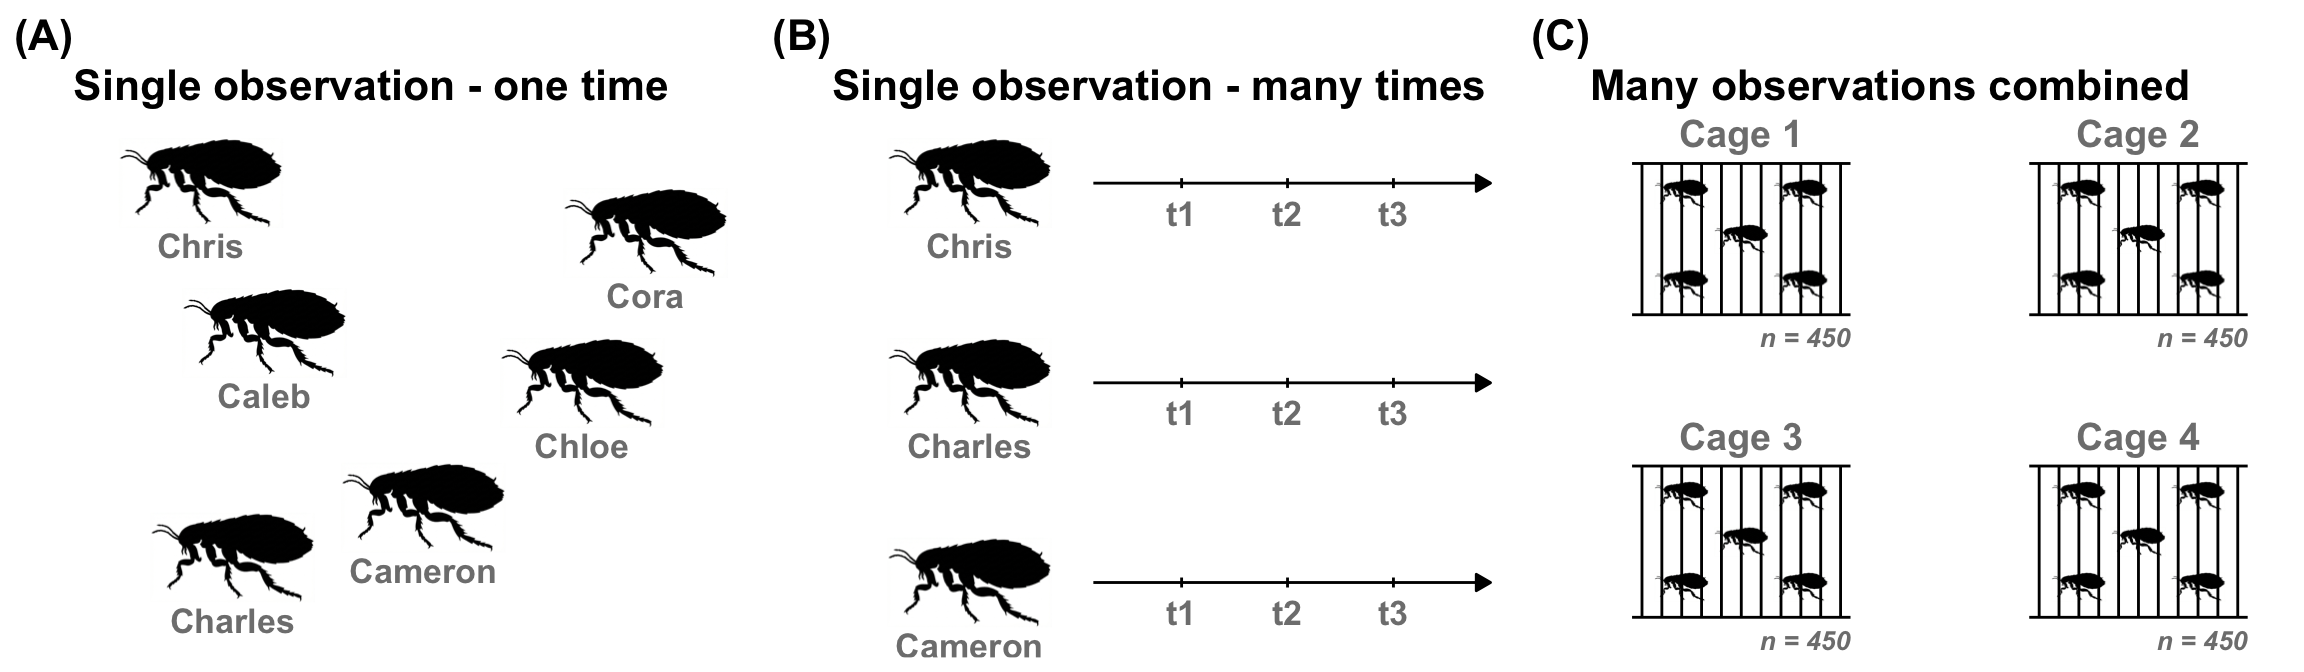
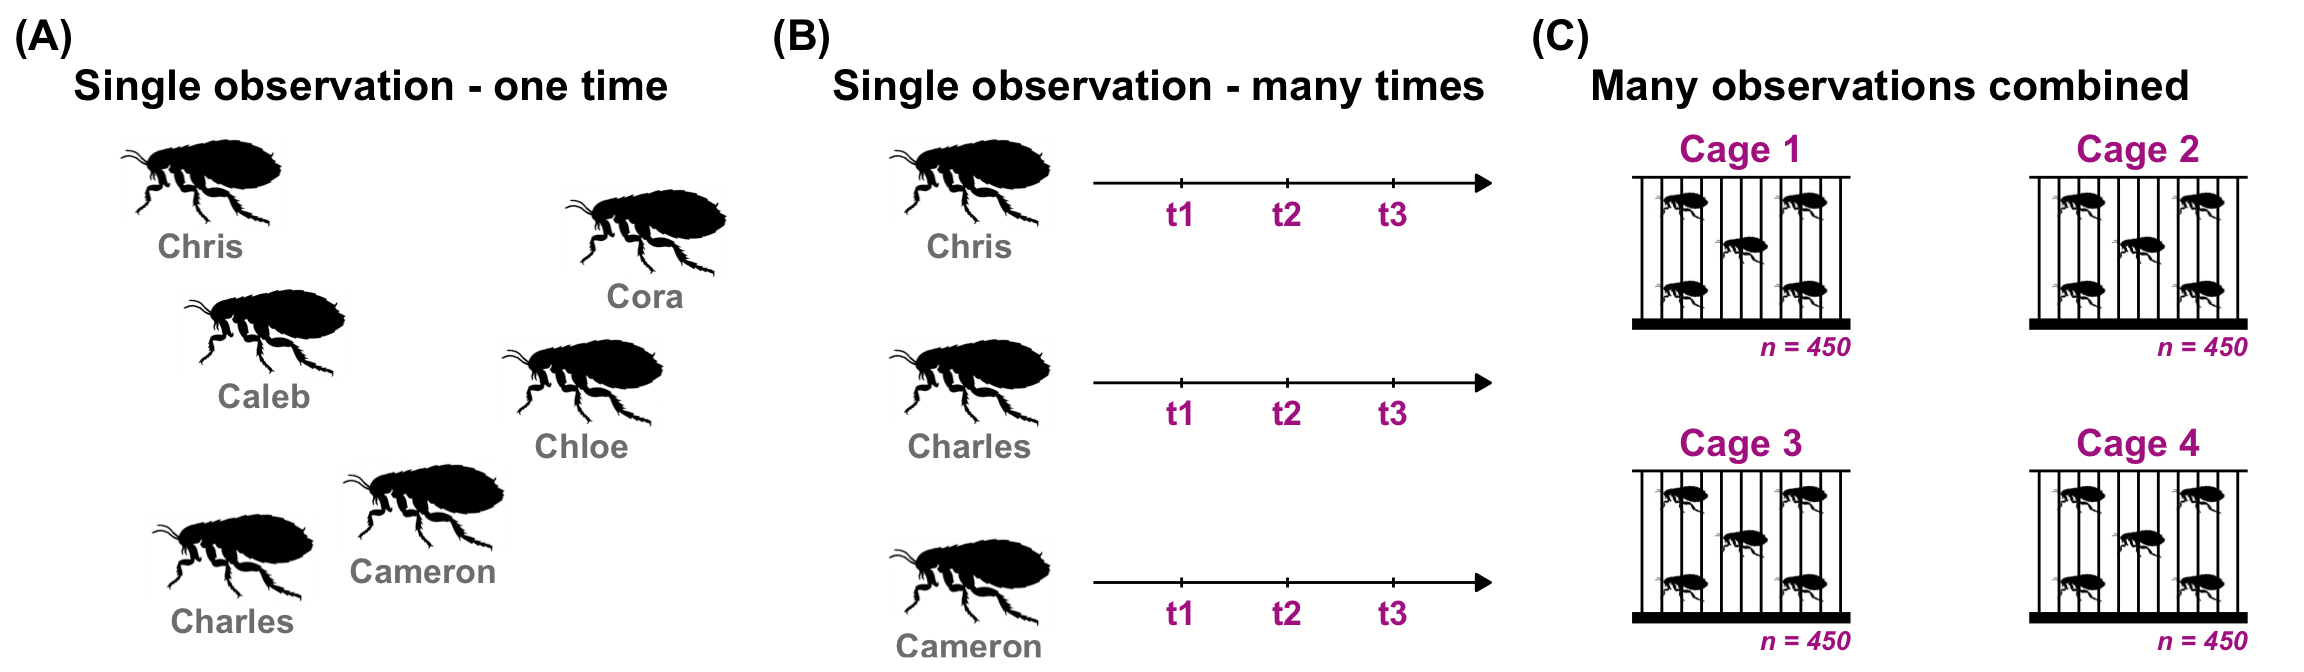
added

diff --git a/docs/chapter-11-covariate-data.html b/docs/chapter-11-covariate-data.html
@@ -432,7 +432,7 @@ window.Quarto = {
 </header>
 
 
-<p><em>Last modified on 30. December 2025 at 19:55:07</em></p>
+<p><em>Last modified on 30. December 2025 at 19:57:14</em></p>
 <blockquote class="blockquote">
 <p><em>“A quote.” — Dan Meyer</em></p>
 </blockquote>
@@ -1188,7 +1188,7 @@ Figure&nbsp;4.5: foo <strong>(A)</strong> foo <strong>(B)</strong> foo
 <span id="cb9-78"><a href="#cb9-78" aria-hidden="true" tabindex="-1"></a>  <span class="fu">annotate</span>(<span class="st">"text"</span>, <span class="at">x =</span> <span class="fu">rep</span>(<span class="fu">c</span>(<span class="sc">-</span><span class="dv">1</span>, <span class="dv">2</span>, <span class="dv">5</span>), <span class="at">times =</span> <span class="dv">3</span>), </span>
 <span id="cb9-79"><a href="#cb9-79" aria-hidden="true" tabindex="-1"></a>           <span class="at">y =</span> <span class="fu">c</span>(<span class="fl">7.8</span>, <span class="fl">7.8</span>, <span class="fl">7.8</span>, <span class="sc">-</span><span class="fl">0.2</span>, <span class="sc">-</span><span class="fl">0.2</span>, <span class="sc">-</span><span class="fl">0.2</span>, <span class="sc">-</span><span class="fl">8.2</span>, <span class="sc">-</span><span class="fl">8.2</span>, <span class="sc">-</span><span class="fl">8.2</span>)<span class="sc">-</span><span class="dv">1</span>,</span>
 <span id="cb9-80"><a href="#cb9-80" aria-hidden="true" tabindex="-1"></a>           <span class="at">label =</span> <span class="fu">rep</span>(<span class="fu">c</span>(<span class="st">"t1"</span>, <span class="st">"t2"</span>, <span class="st">"t3"</span>), <span class="at">times =</span> <span class="dv">3</span>), </span>
-<span id="cb9-81"><a href="#cb9-81" aria-hidden="true" tabindex="-1"></a>           <span class="at">fontface =</span> <span class="dv">2</span>, <span class="at">size =</span> <span class="fl">4.5</span>, <span class="at">color =</span> <span class="st">"gray50"</span>) <span class="sc">+</span></span>
+<span id="cb9-81"><a href="#cb9-81" aria-hidden="true" tabindex="-1"></a>           <span class="at">fontface =</span> <span class="dv">2</span>, <span class="at">size =</span> <span class="fl">4.5</span>, <span class="at">color =</span> <span class="st">"#B12A90FF"</span>) <span class="sc">+</span></span>
 <span id="cb9-82"><a href="#cb9-82" aria-hidden="true" tabindex="-1"></a>  <span class="fu">labs</span>(<span class="at">title =</span> <span class="st">"Single observation - many times"</span>) <span class="sc">+</span></span>
 <span id="cb9-83"><a href="#cb9-83" aria-hidden="true" tabindex="-1"></a>  <span class="fu">theme</span>(<span class="at">plot.title =</span> <span class="fu">element_text</span>(<span class="at">size =</span> <span class="dv">16</span>, <span class="at">face =</span> <span class="st">"bold"</span>),</span>
 <span id="cb9-84"><a href="#cb9-84" aria-hidden="true" tabindex="-1"></a>        <span class="at">plot.subtitle =</span> <span class="fu">element_text</span>(<span class="at">size =</span> <span class="dv">12</span>, <span class="at">face =</span> <span class="st">"italic"</span>))</span>
@@ -1198,7 +1198,7 @@ Figure&nbsp;4.5: foo <strong>(A)</strong> foo <strong>(B)</strong> foo
 <span id="cb9-88"><a href="#cb9-88" aria-hidden="true" tabindex="-1"></a>    <span class="fu">geom_image</span>(<span class="fu">aes</span>(<span class="at">x =</span> <span class="fu">c</span>(x <span class="sc">+</span> <span class="dv">1</span>, x <span class="sc">+</span> <span class="dv">1</span>, x <span class="sc">+</span> <span class="fl">2.5</span>, x <span class="sc">+</span> <span class="dv">4</span>, x <span class="sc">+</span> <span class="dv">4</span>), </span>
 <span id="cb9-89"><a href="#cb9-89" aria-hidden="true" tabindex="-1"></a>                   <span class="at">y =</span> <span class="fu">c</span>(y <span class="sc">+</span> <span class="dv">1</span>, y <span class="sc">+</span> <span class="dv">4</span>, y <span class="sc">+</span> <span class="fl">2.5</span>, y <span class="sc">+</span> <span class="dv">1</span>, y <span class="sc">+</span> <span class="dv">4</span>), </span>
 <span id="cb9-90"><a href="#cb9-90" aria-hidden="true" tabindex="-1"></a>                   <span class="at">image =</span> <span class="fu">rep</span>(<span class="st">"images/flea_00.png"</span>, <span class="dv">5</span>)), <span class="at">size =</span> <span class="fl">0.1</span>),</span>
-<span id="cb9-91"><a href="#cb9-91" aria-hidden="true" tabindex="-1"></a>    <span class="fu">annotate</span>(<span class="st">"segment"</span>, <span class="at">x =</span> x<span class="fl">-0.25</span>, <span class="at">y =</span> y, <span class="at">xend =</span> x <span class="sc">+</span> <span class="fl">5.25</span>, <span class="at">yend =</span> y),</span>
+<span id="cb9-91"><a href="#cb9-91" aria-hidden="true" tabindex="-1"></a>    <span class="fu">annotate</span>(<span class="st">"segment"</span>, <span class="at">x =</span> x<span class="fl">-0.25</span>, <span class="at">y =</span> y, <span class="at">xend =</span> x <span class="sc">+</span> <span class="fl">5.25</span>, <span class="at">yend =</span> y, <span class="at">size =</span> <span class="dv">2</span>),</span>
 <span id="cb9-92"><a href="#cb9-92" aria-hidden="true" tabindex="-1"></a>    <span class="fu">annotate</span>(<span class="st">"segment"</span>, <span class="at">x =</span> x<span class="fl">-0.25</span>, <span class="at">y =</span> y <span class="sc">+</span> <span class="dv">5</span>, <span class="at">xend =</span> x <span class="sc">+</span> <span class="fl">5.25</span>, <span class="at">yend =</span> y <span class="sc">+</span> <span class="dv">5</span>),</span>
 <span id="cb9-93"><a href="#cb9-93" aria-hidden="true" tabindex="-1"></a>    <span class="fu">annotate</span>(<span class="st">"segment"</span>, <span class="at">x =</span> x<span class="sc">+</span><span class="fu">seq</span>(<span class="dv">0</span>, <span class="dv">5</span>, <span class="at">by =</span> <span class="fl">0.5</span>), <span class="at">y =</span> y, </span>
 <span id="cb9-94"><a href="#cb9-94" aria-hidden="true" tabindex="-1"></a>             <span class="at">xend =</span> x <span class="sc">+</span><span class="fu">seq</span>(<span class="dv">0</span>, <span class="dv">5</span>, <span class="at">by =</span> <span class="fl">0.5</span>), <span class="at">yend =</span> y <span class="sc">+</span> <span class="dv">5</span>)</span>
@@ -1208,7 +1208,7 @@ Figure&nbsp;4.5: foo <strong>(A)</strong> foo <strong>(B)</strong> foo
 <span id="cb9-98"><a href="#cb9-98" aria-hidden="true" tabindex="-1"></a>p_block_obs_flea <span class="ot">&lt;-</span> <span class="fu">ggplot</span>() <span class="sc">+</span></span>
 <span id="cb9-99"><a href="#cb9-99" aria-hidden="true" tabindex="-1"></a>  <span class="do">## theme_minimal() +</span></span>
 <span id="cb9-100"><a href="#cb9-100" aria-hidden="true" tabindex="-1"></a>  <span class="fu">theme_void</span>() <span class="sc">+</span></span>
-<span id="cb9-101"><a href="#cb9-101" aria-hidden="true" tabindex="-1"></a>  <span class="fu">coord_cartesian</span>(<span class="at">xlim =</span> <span class="fu">c</span>(<span class="sc">-</span><span class="dv">8</span>, <span class="dv">8</span>), <span class="at">ylim =</span> <span class="fu">c</span>(<span class="sc">-</span><span class="dv">8</span>, <span class="fl">8.5</span>)) <span class="sc">+</span></span>
+<span id="cb9-101"><a href="#cb9-101" aria-hidden="true" tabindex="-1"></a>  <span class="fu">coord_cartesian</span>(<span class="at">xlim =</span> <span class="fu">c</span>(<span class="sc">-</span><span class="dv">8</span>, <span class="dv">8</span>), <span class="at">ylim =</span> <span class="fu">c</span>(<span class="sc">-</span><span class="dv">8</span>, <span class="dv">9</span>)) <span class="sc">+</span></span>
 <span id="cb9-102"><a href="#cb9-102" aria-hidden="true" tabindex="-1"></a>  <span class="fu">geom_cage</span>(<span class="at">x =</span> <span class="sc">-</span><span class="fl">7.5</span>, <span class="at">y =</span> <span class="sc">-</span><span class="fl">7.5</span>) <span class="sc">+</span></span>
 <span id="cb9-103"><a href="#cb9-103" aria-hidden="true" tabindex="-1"></a>  <span class="fu">geom_cage</span>(<span class="at">x =</span> <span class="sc">-</span><span class="fl">7.5</span>, <span class="at">y =</span> <span class="fl">2.5</span>) <span class="sc">+</span></span>
 <span id="cb9-104"><a href="#cb9-104" aria-hidden="true" tabindex="-1"></a>  <span class="fu">geom_cage</span>(<span class="at">x =</span> <span class="fl">2.5</span>, <span class="at">y =</span> <span class="sc">-</span><span class="fl">7.5</span>) <span class="sc">+</span></span>
@@ -1216,11 +1216,11 @@ Figure&nbsp;4.5: foo <strong>(A)</strong> foo <strong>(B)</strong> foo
 <span id="cb9-106"><a href="#cb9-106" aria-hidden="true" tabindex="-1"></a>  <span class="fu">annotate</span>(<span class="st">"text"</span>, <span class="at">x =</span> <span class="fu">c</span>(<span class="sc">-</span><span class="fl">7.5</span>, <span class="fl">2.5</span>, <span class="sc">-</span><span class="fl">7.5</span>, <span class="fl">2.5</span>) <span class="sc">+</span> <span class="fl">2.5</span>,</span>
 <span id="cb9-107"><a href="#cb9-107" aria-hidden="true" tabindex="-1"></a>           <span class="at">y =</span> <span class="fu">c</span>(<span class="fl">2.5</span>, <span class="fl">2.5</span>, <span class="sc">-</span><span class="fl">7.5</span>, <span class="sc">-</span><span class="fl">7.5</span>) <span class="sc">+</span> <span class="dv">6</span>,</span>
 <span id="cb9-108"><a href="#cb9-108" aria-hidden="true" tabindex="-1"></a>           <span class="at">label =</span> <span class="fu">c</span>(<span class="st">"Cage 1"</span>, <span class="st">"Cage 2"</span>, <span class="st">"Cage 3"</span>, <span class="st">"Cage 4"</span>), </span>
-<span id="cb9-109"><a href="#cb9-109" aria-hidden="true" tabindex="-1"></a>           <span class="at">fontface =</span> <span class="dv">2</span>, <span class="at">size =</span> <span class="dv">5</span>, <span class="at">color =</span> <span class="st">"gray50"</span>) <span class="sc">+</span></span>
+<span id="cb9-109"><a href="#cb9-109" aria-hidden="true" tabindex="-1"></a>           <span class="at">fontface =</span> <span class="dv">2</span>, <span class="at">size =</span> <span class="dv">5</span>, <span class="at">color =</span> <span class="st">"#B12A90FF"</span>) <span class="sc">+</span></span>
 <span id="cb9-110"><a href="#cb9-110" aria-hidden="true" tabindex="-1"></a>  <span class="fu">annotate</span>(<span class="st">"text"</span>, <span class="at">x =</span> <span class="fu">c</span>(<span class="sc">-</span><span class="fl">7.5</span>, <span class="fl">2.5</span>, <span class="sc">-</span><span class="fl">7.5</span>, <span class="fl">2.5</span>) <span class="sc">+</span> <span class="fl">5.25</span>,</span>
 <span id="cb9-111"><a href="#cb9-111" aria-hidden="true" tabindex="-1"></a>           <span class="at">y =</span> <span class="fu">c</span>(<span class="fl">2.5</span>, <span class="fl">2.5</span>, <span class="sc">-</span><span class="fl">7.5</span>, <span class="sc">-</span><span class="fl">7.5</span>) <span class="sc">-</span> <span class="fl">0.75</span>,</span>
 <span id="cb9-112"><a href="#cb9-112" aria-hidden="true" tabindex="-1"></a>           <span class="at">label =</span> <span class="fu">c</span>(<span class="st">"n = 450"</span>, <span class="st">"n = 450"</span>, <span class="st">"n = 450"</span>, <span class="st">"n = 450"</span>), </span>
-<span id="cb9-113"><a href="#cb9-113" aria-hidden="true" tabindex="-1"></a>           <span class="at">fontface =</span> <span class="dv">4</span>, <span class="at">size =</span> <span class="fl">3.5</span>, <span class="at">color =</span> <span class="st">"gray50"</span>, <span class="at">hjust =</span> <span class="st">"right"</span>) <span class="sc">+</span></span>
+<span id="cb9-113"><a href="#cb9-113" aria-hidden="true" tabindex="-1"></a>           <span class="at">fontface =</span> <span class="dv">4</span>, <span class="at">size =</span> <span class="fl">3.5</span>, <span class="at">color =</span> <span class="st">"#B12A90FF"</span>, <span class="at">hjust =</span> <span class="st">"right"</span>) <span class="sc">+</span></span>
 <span id="cb9-114"><a href="#cb9-114" aria-hidden="true" tabindex="-1"></a>  <span class="fu">labs</span>(<span class="at">title =</span> <span class="st">"Many observations combined"</span>) <span class="sc">+</span></span>
 <span id="cb9-115"><a href="#cb9-115" aria-hidden="true" tabindex="-1"></a>  <span class="fu">theme</span>(<span class="at">plot.title =</span> <span class="fu">element_text</span>(<span class="at">size =</span> <span class="dv">16</span>, <span class="at">face =</span> <span class="st">"bold"</span>),</span>
 <span id="cb9-116"><a href="#cb9-116" aria-hidden="true" tabindex="-1"></a>        <span class="at">plot.subtitle =</span> <span class="fu">element_text</span>(<span class="at">size =</span> <span class="dv">12</span>, <span class="at">face =</span> <span class="st">"italic"</span>))</span>
